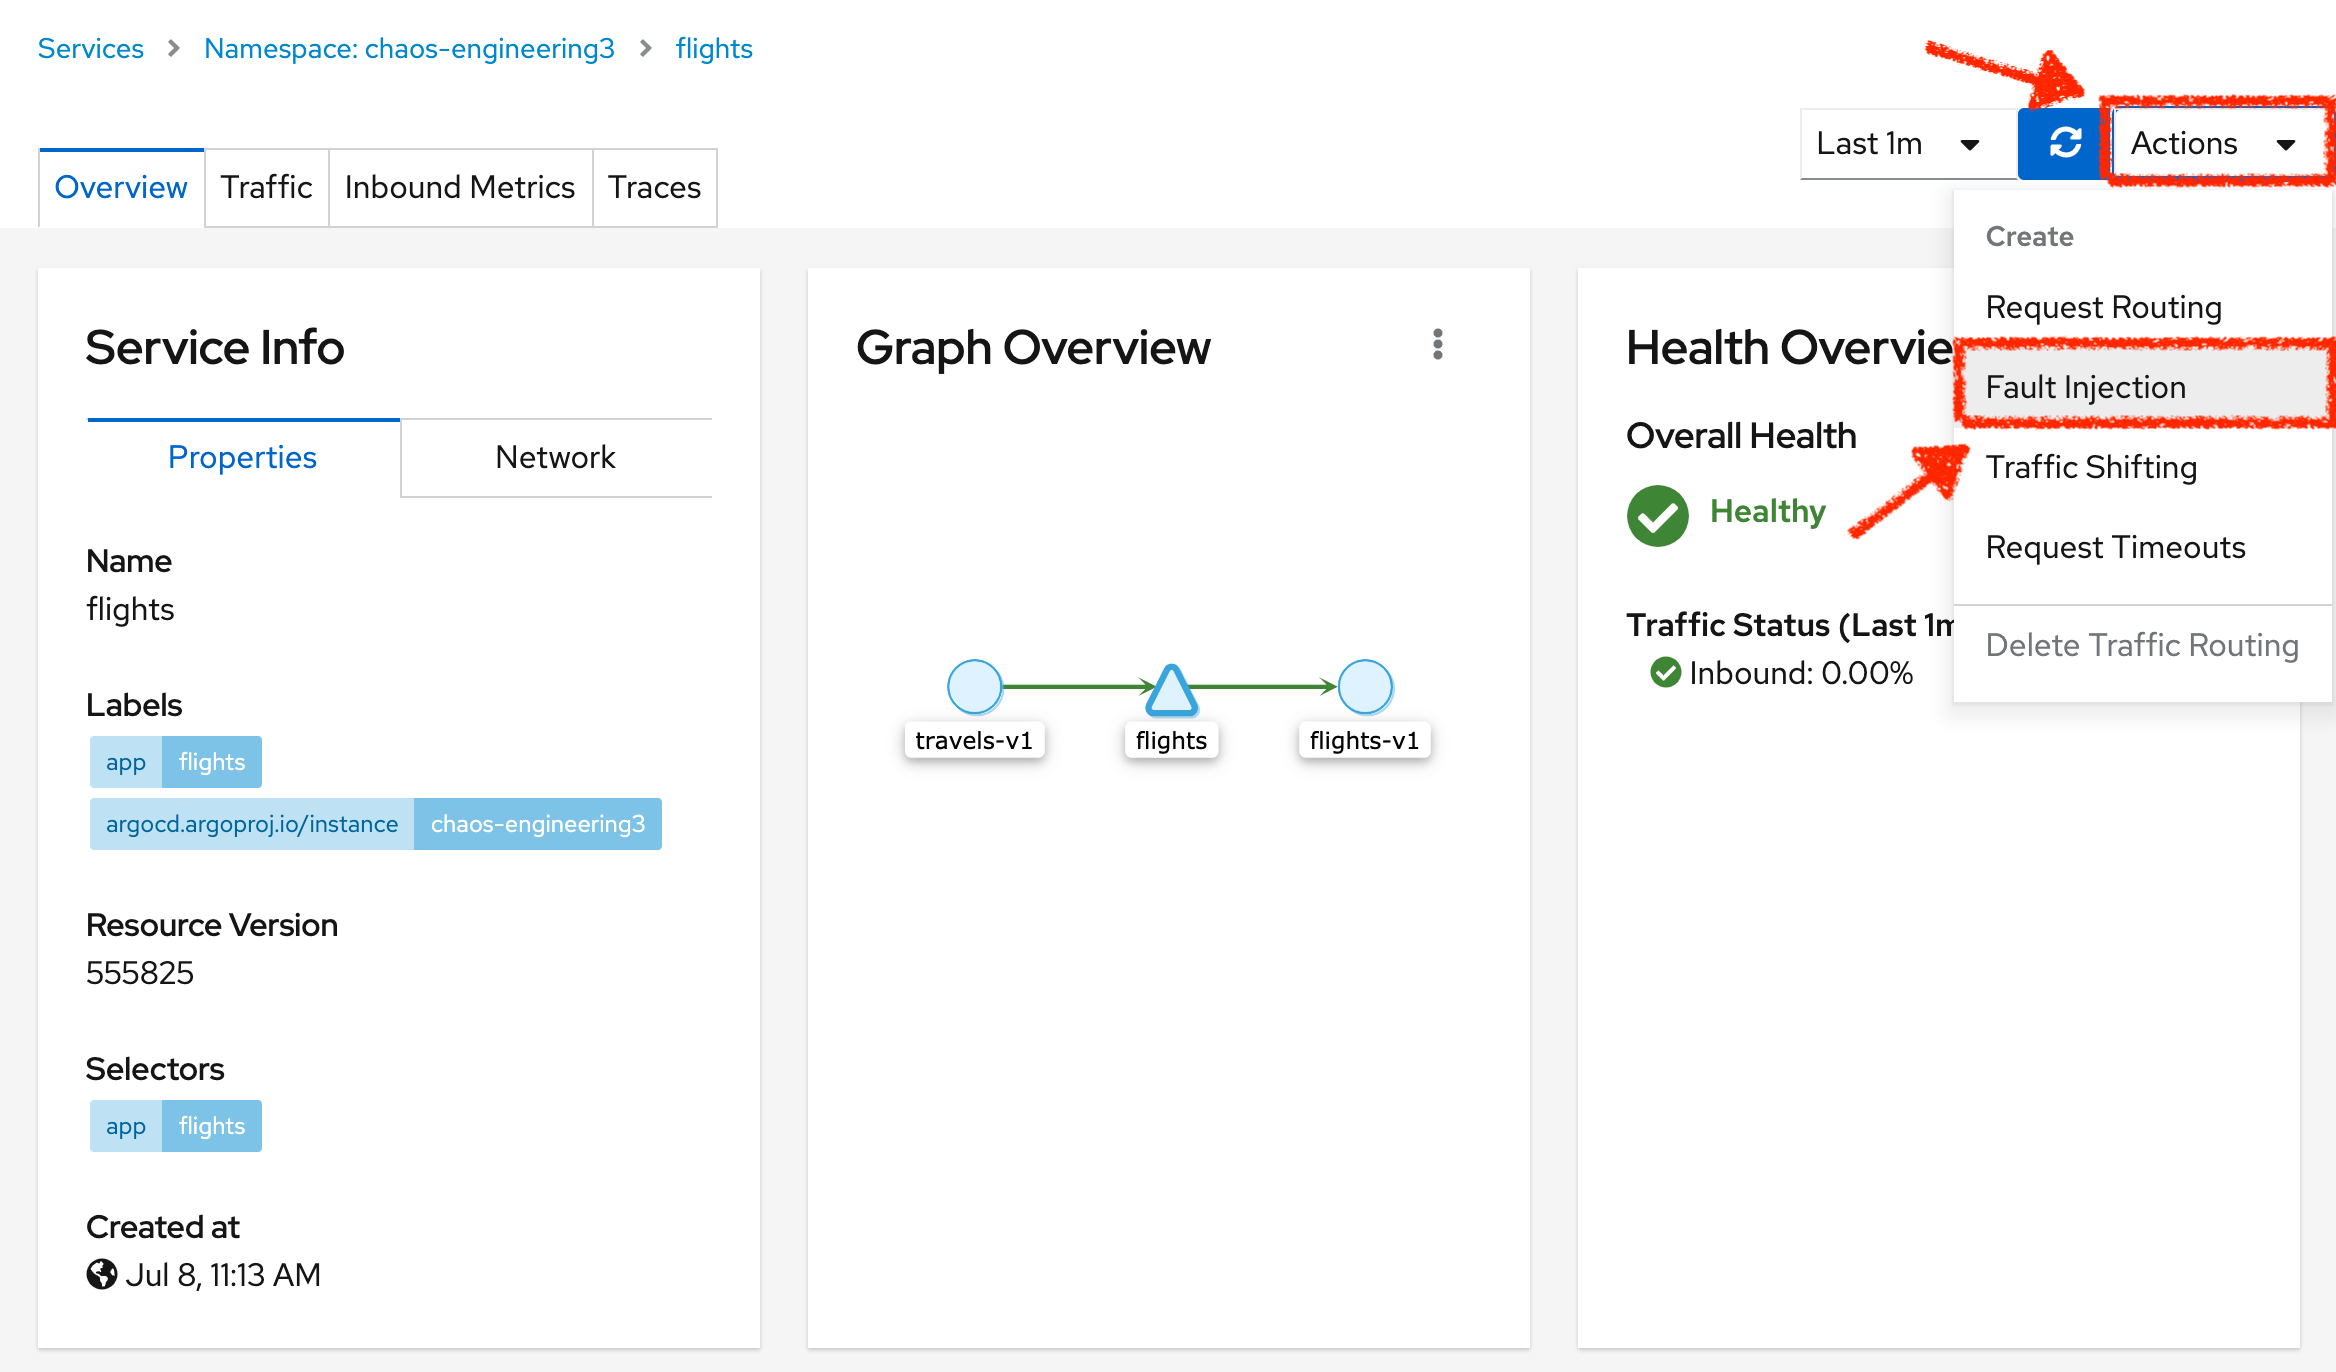
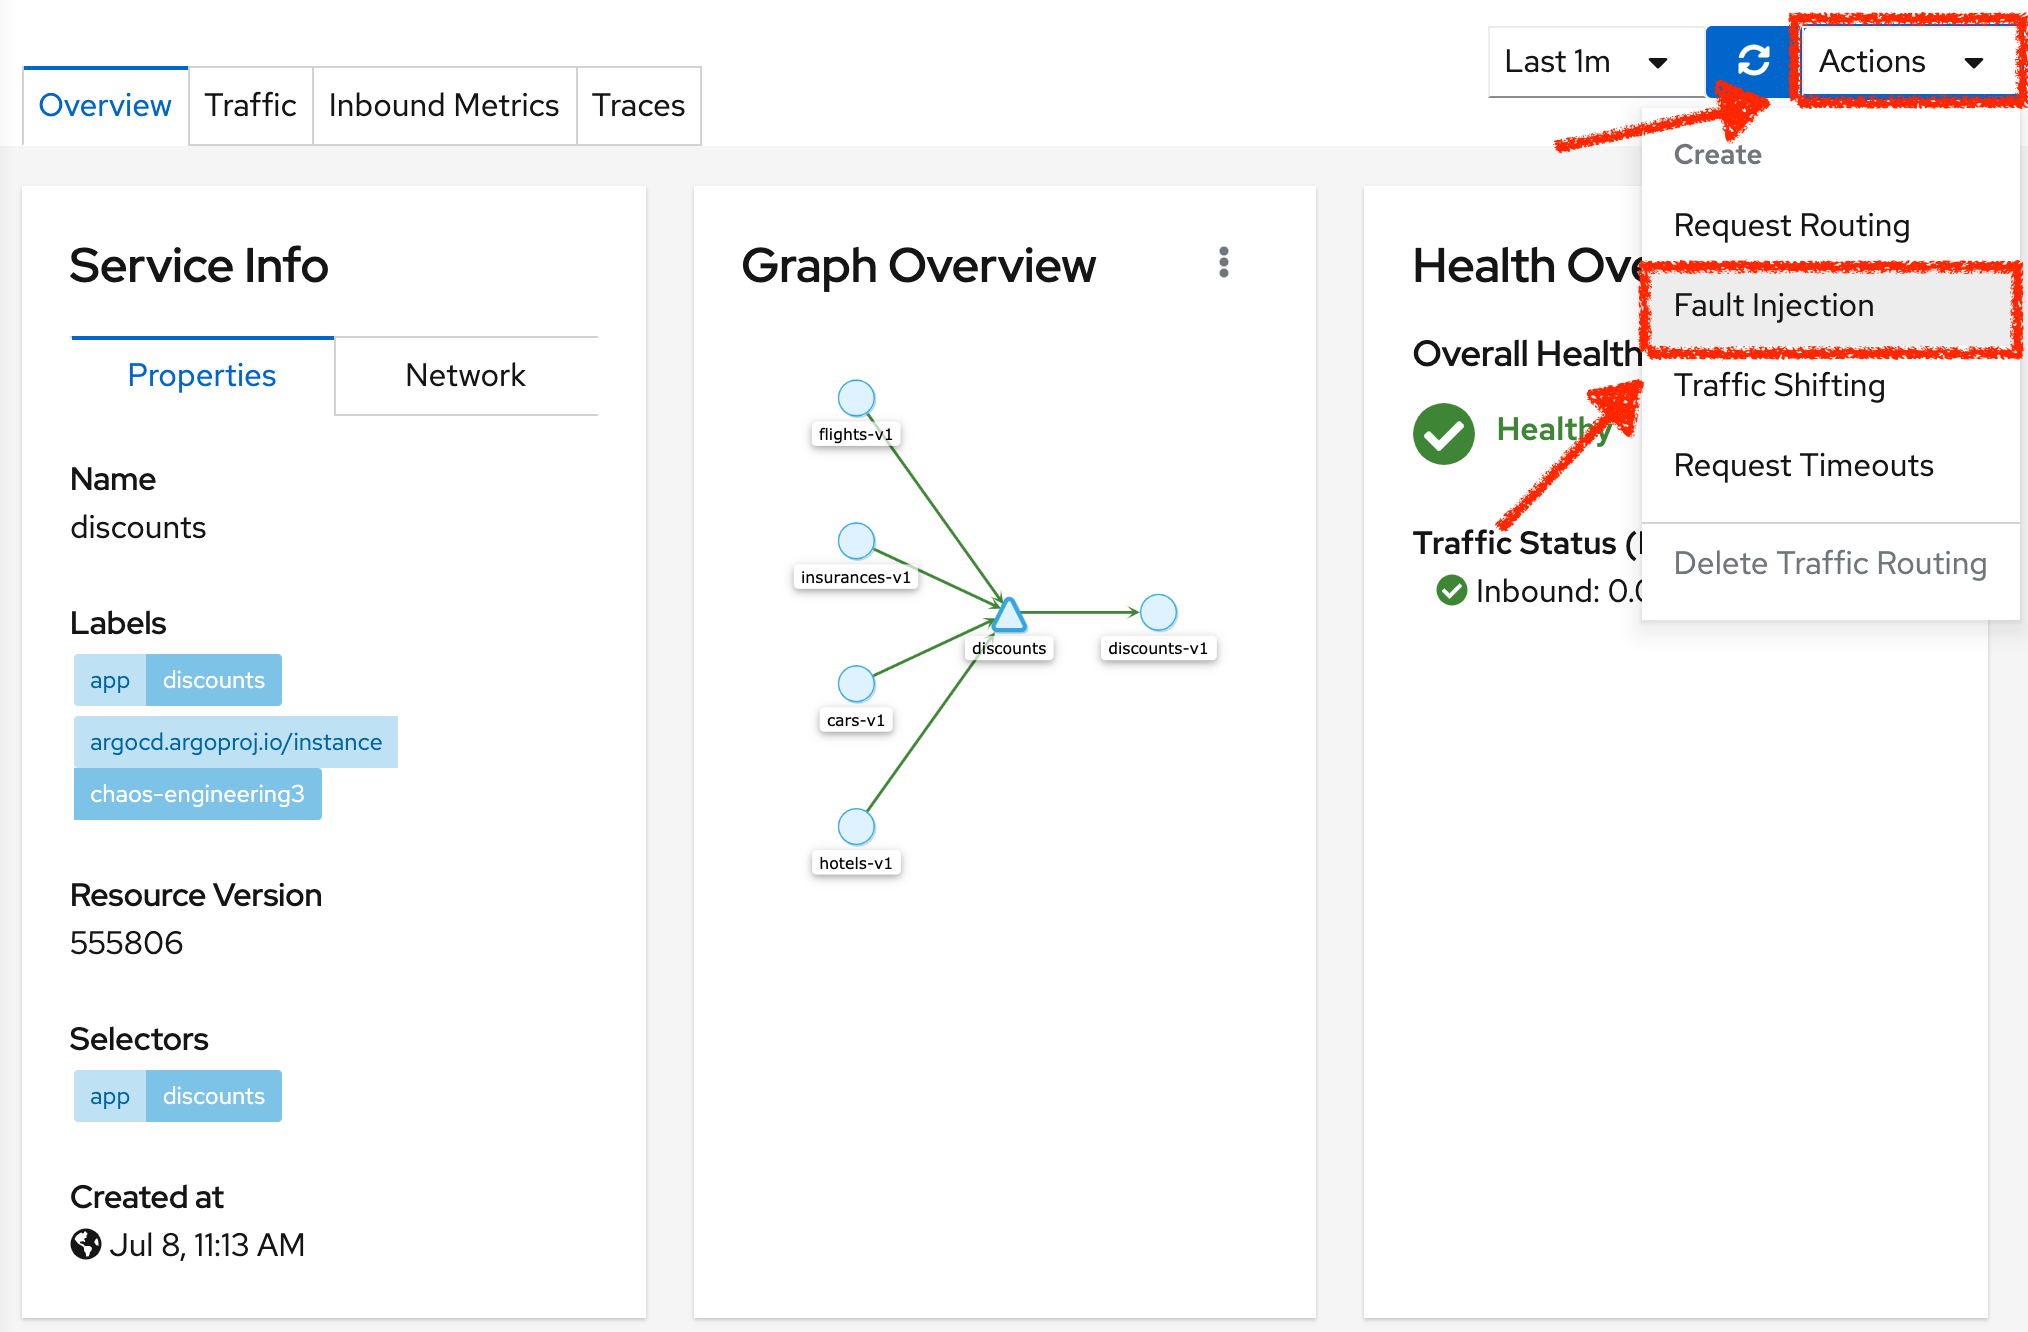
[CI] Publish Documentation for 230ffdfb54c1a63e8c97b0a049b91e100dd3699c - 230ffdfb54c1a63e8c97b0a049b91e100dd3699c 🚀

diff --git a/chaos-engineering/5.0/chaos-latency.html b/chaos-engineering/5.0/chaos-latency.html
@@ -134,7 +134,7 @@
 <p><em>XX MINUTE PRACTICE</em></p>
 </div>
 <div class="paragraph">
-<p>In production, it is very common to have delay services rather than down services. For this first experiment, we will test the following hypothesis:</p>
+<p>In production, it is very common to have delay services rather than down services. <strong>Latency</strong> measures the delay between an action and a response. For this first experiment, we will test the following hypothesis:</p>
 </div>
 <div class="paragraph">
 <p><em><strong>A small network latency should not impact the Service Level Objective (SLO) of the Travel Service</strong></em></p>
@@ -175,6 +175,11 @@ First, <code><strong>select the following variables on the dashboard</strong></c
 </tr>
 </tbody>
 </table>
+<div class="imageblock">
+<div class="content">
+<img src="_images/grafana-chaos-selection.png" alt="Grafana - Chaos Selection" width="400">
+</div>
+</div>
 <div class="paragraph">
 <p>From the <strong>Namespace section</strong>, you can tell that <strong>99% of requests are successful and served within 50 ms</strong></p>
 </div>
@@ -295,7 +300,7 @@ First, <code><strong>select the following variables on the dashboard</strong></c
 </div>
 <div class="imageblock">
 <div class="content">
-<img src="_images/kiali-right-click-hotel-service.png" alt="Kiali - Right Click Service" width="400">
+<img src="_images/kiali-right-click-service.png" alt="Kiali - Right Click Service" width="400">
 </div>
 </div>
 <div class="paragraph">
@@ -353,63 +358,45 @@ First, <code><strong>select the following variables on the dashboard</strong></c
 <p><code><strong>Click on the 'Create' button</strong></code>.</p>
 </div>
 <div class="paragraph">
-<p><strong>30% of the traffic of the 'Hotels' service has now 1 second of delay.</strong> Now let&#8217;s see the impact of the application.</p>
-</div>
-<div class="paragraph">
-<p>In the <a href="https://grafana-istio-system.%APPS_HOSTNAME_SUFFIX%">Chaos Engineering Dashboard</a>, you can see the result of the chaos experiment.
-First, <code><strong>select the following variables on the dashboard</strong></code>:</p>
-</div>
-<table class="tableblock frame-all grid-all stretch">
-<caption class="title">Table 5. Dashboard Settings</caption>
-<colgroup>
-<col style="width: 33.3333%;">
-<col style="width: 33.3333%;">
-<col style="width: 33.3334%;">
-</colgroup>
-<thead>
-<tr>
-<th class="tableblock halign-left valign-top">Parameter</th>
-<th class="tableblock halign-left valign-top">Value</th>
-<th class="tableblock halign-left valign-top">Description</th>
-</tr>
-</thead>
-<tbody>
-<tr>
-<td class="tableblock halign-left valign-top"><p class="tableblock">Namespace</p></td>
-<td class="tableblock halign-left valign-top"><p class="tableblock"><strong>chaos-engineering%USER_ID%</strong></p></td>
-<td class="tableblock halign-left valign-top"></td>
-</tr>
-<tr>
-<td class="tableblock halign-left valign-top"><p class="tableblock">Service</p></td>
-<td class="tableblock halign-left valign-top"><p class="tableblock"><strong>travels</strong></p></td>
-<td class="tableblock halign-left valign-top"></td>
-</tr>
-</tbody>
-</table>
-<div class="imageblock">
-<div class="content">
-<img src="_images/grafana-chaos-selection.png" alt="Grafana - Chaos Selection" width="400">
-</div>
-</div>
-<div class="paragraph">
-<p>From the <strong>'Service Overview'</strong> or <strong>'Request Duration'</strong> panels, you can tell that the "Travels" service is particularly impacted when there is a network latency with one of its dependant services.</p>
-</div>
-<div class="imageblock">
-<div class="content">
-<img src="_images/kiali-latency-fault-overview.png" alt="Kiali - Latency Fault Overview" width="900">
-</div>
-</div>
-<div class="imageblock">
-<div class="content">
-<img src="_images/kiali-latency-fault-details.png" alt="Kiali - Latency Fault Details" width="900">
-</div>
+<p><strong>30% of the traffic of the 'Discounts' service has now 1 second of delay.</strong> Now let&#8217;s see the impact of the application.</p>
 </div>
 </div>
 </div>
 <div class="sect1">
 <h2 id="_analyze_the_chaos_outcome"><a class="anchor" href="#_analyze_the_chaos_outcome"></a>Analyze the Chaos outcome</h2>
 <div class="sectionbody">
-
+<div class="paragraph">
+<p>In the <a href="https://grafana-istio-system.%APPS_HOSTNAME_SUFFIX%">Chaos Engineering Dashboard</a>, you can see the result of the chaos experiment.</p>
+</div>
+<div class="imageblock">
+<div class="content">
+<img src="_images/kiali-latency-fault-overview.png" alt="Kiali - Latency Fault Overview" width="900">
+</div>
+</div>
+<div class="paragraph">
+<p>From the <strong>'Service Overview'</strong> or <strong>'Request Duration'</strong> panels, you can tell the following about the small network latency based on our hypothesis:</p>
+</div>
+<div class="ulist">
+<ul>
+<li>
+<p>there is no impact on the Success Rate of the overall requests (100%)</p>
+</li>
+<li>
+<p>there is a huge impact on the performance of the application.</p>
+</li>
+</ul>
+</div>
+<div class="paragraph">
+<p>Indeed, just 1 second of delay on 30% of the traffic of one dependant service induces <strong>a latency propagation of more than 2 seconds across the system</strong>.</p>
+</div>
+<div class="imageblock">
+<div class="content">
+<img src="_images/kiali-latency-fault-details.png" alt="Kiali - Latency Fault Details" width="900">
+</div>
+</div>
+<div class="paragraph">
+<p>In conclusion, you can tell the <strong>application is not resilient to a small network latency</strong>. To reduce or fix this phenomenon, you could configure an autoscaling or implement a cache mechanism across the different services of the applications.</p>
+</div>
 </div>
 </div>
 <nav class="pagination">
